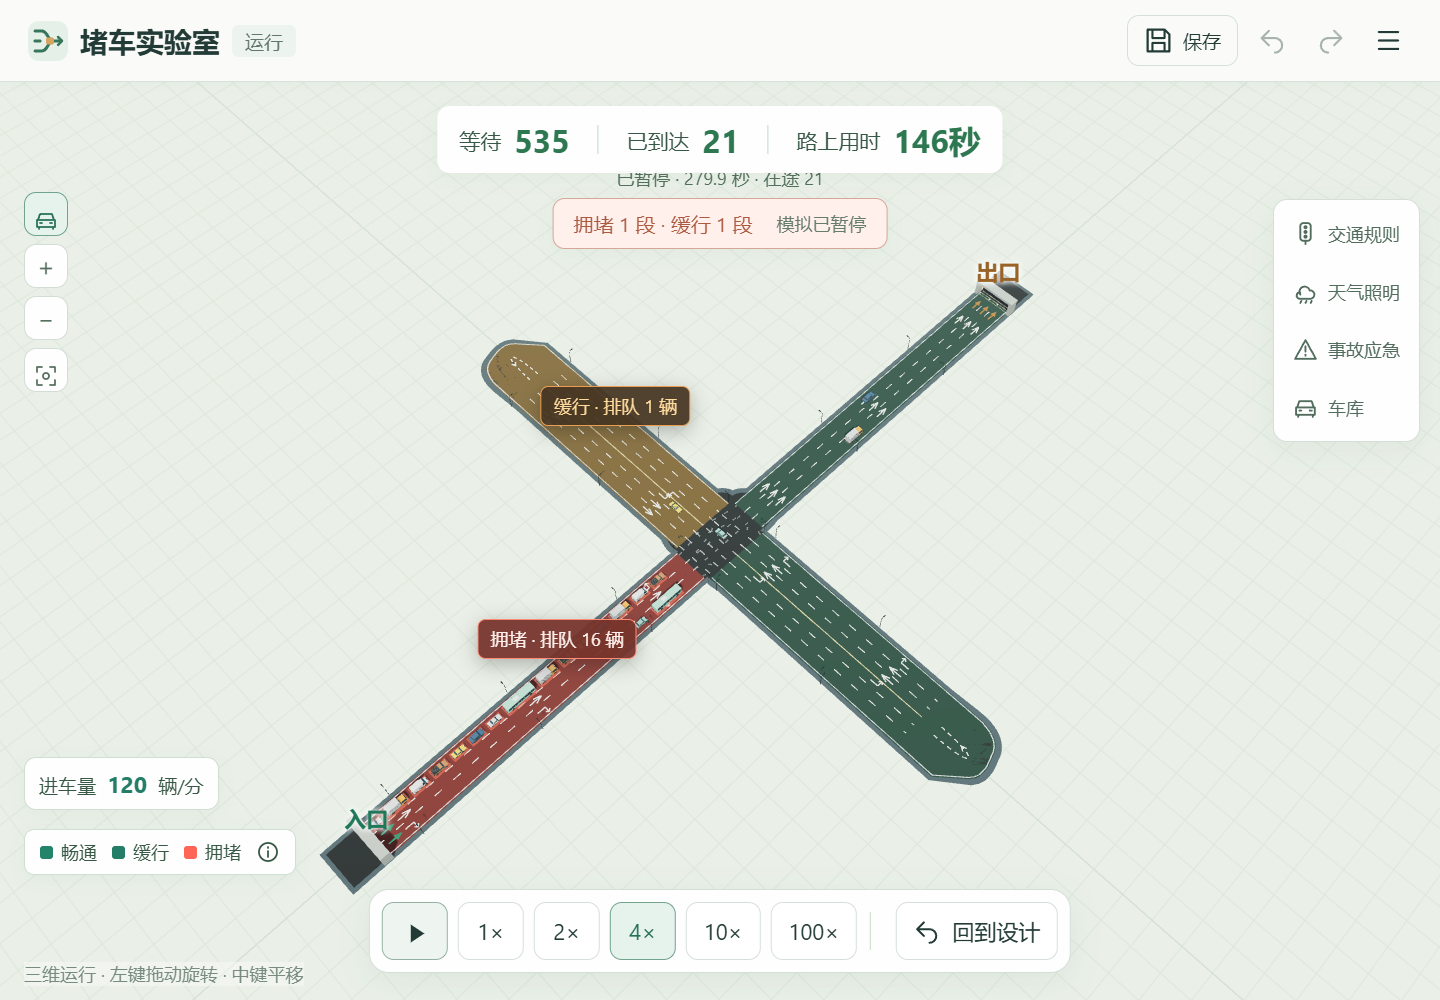
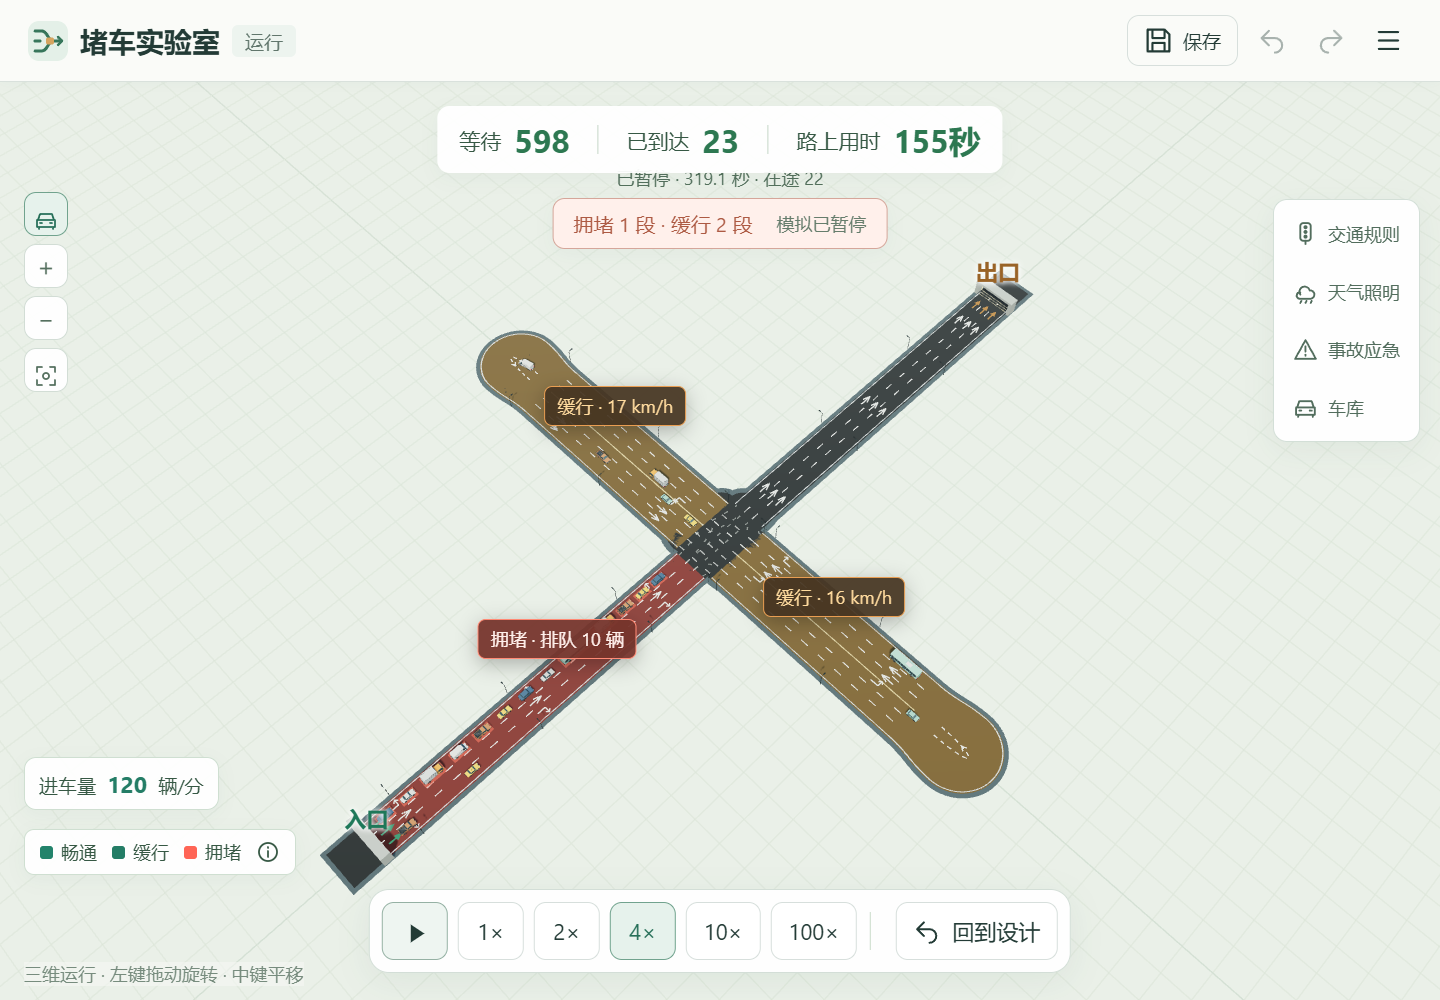
修正回车区为对称半圆并自适应道路与转弯包络

diff --git a/src/scene.js b/src/scene.js
@@ -89,7 +89,13 @@ export class TrafficScene {
   pathLine(points,color,y=.48,dashed=false,group=this.roadGroup){const geometry=new THREE.BufferGeometry().setFromPoints(points.map(p=>new THREE.Vector3(p.x,y,p.z)));const material=dashed?new THREE.LineDashedMaterial({color,dashSize:2.8,gapSize:4.2}):new THREE.LineBasicMaterial({color});const line=new THREE.Line(geometry,material);if(dashed)line.computeLineDistances();group.add(line);return line;}
   pavementMesh(polygons,material,y){
     const vertices=[],indices=[];
-    for(const points of polygons){if(points.length<3)continue;const start=vertices.length/3;for(const p of points)vertices.push(p.x,y,p.z);for(let i=1;i<points.length-1;i++)indices.push(start,start+i+1,start+i);}
+    for(const points of polygons){
+      if(points.length<3)continue;const start=vertices.length/3;for(const p of points)vertices.push(p.x,y,p.z);
+      const area=(a,b,c)=>(b.x-a.x)*(c.z-a.z)-(b.z-a.z)*(c.x-a.x);
+      const convex=points.every((p,i)=>area(p,points[(i+1)%points.length],points[(i+2)%points.length])>=-1e-8);
+      const triangles=convex?Array.from({length:points.length-2},(_,i)=>[0,i+1,i+2]):THREE.ShapeUtils.triangulateShape(points.map(p=>new THREE.Vector2(p.x,p.z)),[]);
+      for(const [a,b,c] of triangles){const winding=area(points[a],points[b],points[c]);if(Math.abs(winding)<1e-10)continue;indices.push(start+a,start+(winding>0?c:b),start+(winding>0?b:c));}
+    }
     if(!vertices.length)return;
     const geometry=new THREE.BufferGeometry();geometry.setAttribute('position',new THREE.Float32BufferAttribute(vertices,3));geometry.setIndex(indices);geometry.computeVertexNormals();
     const mesh=new THREE.Mesh(geometry,material);mesh.receiveShadow=true;this.roadGroup.add(mesh);return mesh;

diff --git a/README.md b/README.md
@@ -6,7 +6,7 @@
   <p><a href="#玩法演示">玩法演示</a> · <a href="#本地运行">本地运行</a> · <a href="#操作方式">操作方式</a> · <a href="#模型与参数">模型与参数</a></p>
 </div>
 
-![堵车实验室六车道信号路口实际运行画面](media/hero.png?v=7.0.1)
+![堵车实验室六车道信号路口实际运行画面](media/hero.png?v=7.0.2)
 
 从一条道路开始，逐步搭建交叉口、分岔和环岛。调整车道用途、进车需求与信号配时，比较道路结构和突发事件对通行的影响。全部模型和运行资源随仓库提供。
 
@@ -18,7 +18,7 @@
 
 ![从空白画布放置入口、绘制道路、连接出口并开始运行](media/build.gif)
 
-支持直线、曲线、自由道路和圆形道路。单向道路支持 1 至 16 车道，双向道路支持每个方向 1 至 8 车道；道路宽度随车道数量调整，路口按道路走廊与车辆转弯包络生成铺装。普通双向道路末端自动设置带方向引导的回车区。
+支持直线、曲线、自由道路和圆形道路。单向道路支持 1 至 16 车道，双向道路支持每个方向 1 至 8 车道；道路宽度随车道数量调整，路口按道路走廊与车辆转弯包络生成铺装。普通双向道路末端自动设置带方向引导的回车区，采用对称半圆端部和两侧平滑过渡，尺寸按道路宽度与车辆转弯包络调整。
 
 ### 多入口、多出口
 
@@ -28,7 +28,7 @@
 
 ### 信号与拥堵
 
-![六车道转向路口的信号控制、车流与排队变化](media/signals.gif?v=7.0.1)
+![六车道转向路口的信号控制、车流与排队变化](media/signals.gif?v=7.0.2)
 
 调整绿灯时长、总进车量和逐道转向配置，观察排队、车速和到达数量的变化。内置模板提供信号均分与东西优先、20 km/h 与 60 km/h 瓶颈，以及 Braess 有捷径与无捷径布局，便于在相同需求和随机种子下进行对照。
 
@@ -36,12 +36,12 @@
 
 道路属性支持逐道配置左转、直行、右转与共享车道。自动模式依据路口的可通行方向分配车道用途。
 
-![道路属性中的车道数量与逐道转向设置](media/turn-lanes.png?v=7.0.1)
+![道路属性中的车道数量与逐道转向设置](media/turn-lanes.png?v=7.0.2)
 
 天气与昼夜设置可切换场景环境；车库可查看八类车辆的三维模型。运行中还可注入车辆故障与碰撞，执行清障，并保存、导出本轮统计与设计。菜单“交通原理”提供三段可暂停的循环示意动画。
 
 <p align="center">
-  <a href="media/environment.png?v=7.0.1"><img src="media/environment.png?v=7.0.1" width="49%" alt="雨夜环境中的实际路网"></a>
+  <a href="media/environment.png?v=7.0.2"><img src="media/environment.png?v=7.0.2" width="49%" alt="雨夜环境中的实际路网"></a>
   <a href="media/garage.png"><img src="media/garage.png" width="49%" alt="车型车库中的三维车辆"></a>
 </p>
 
